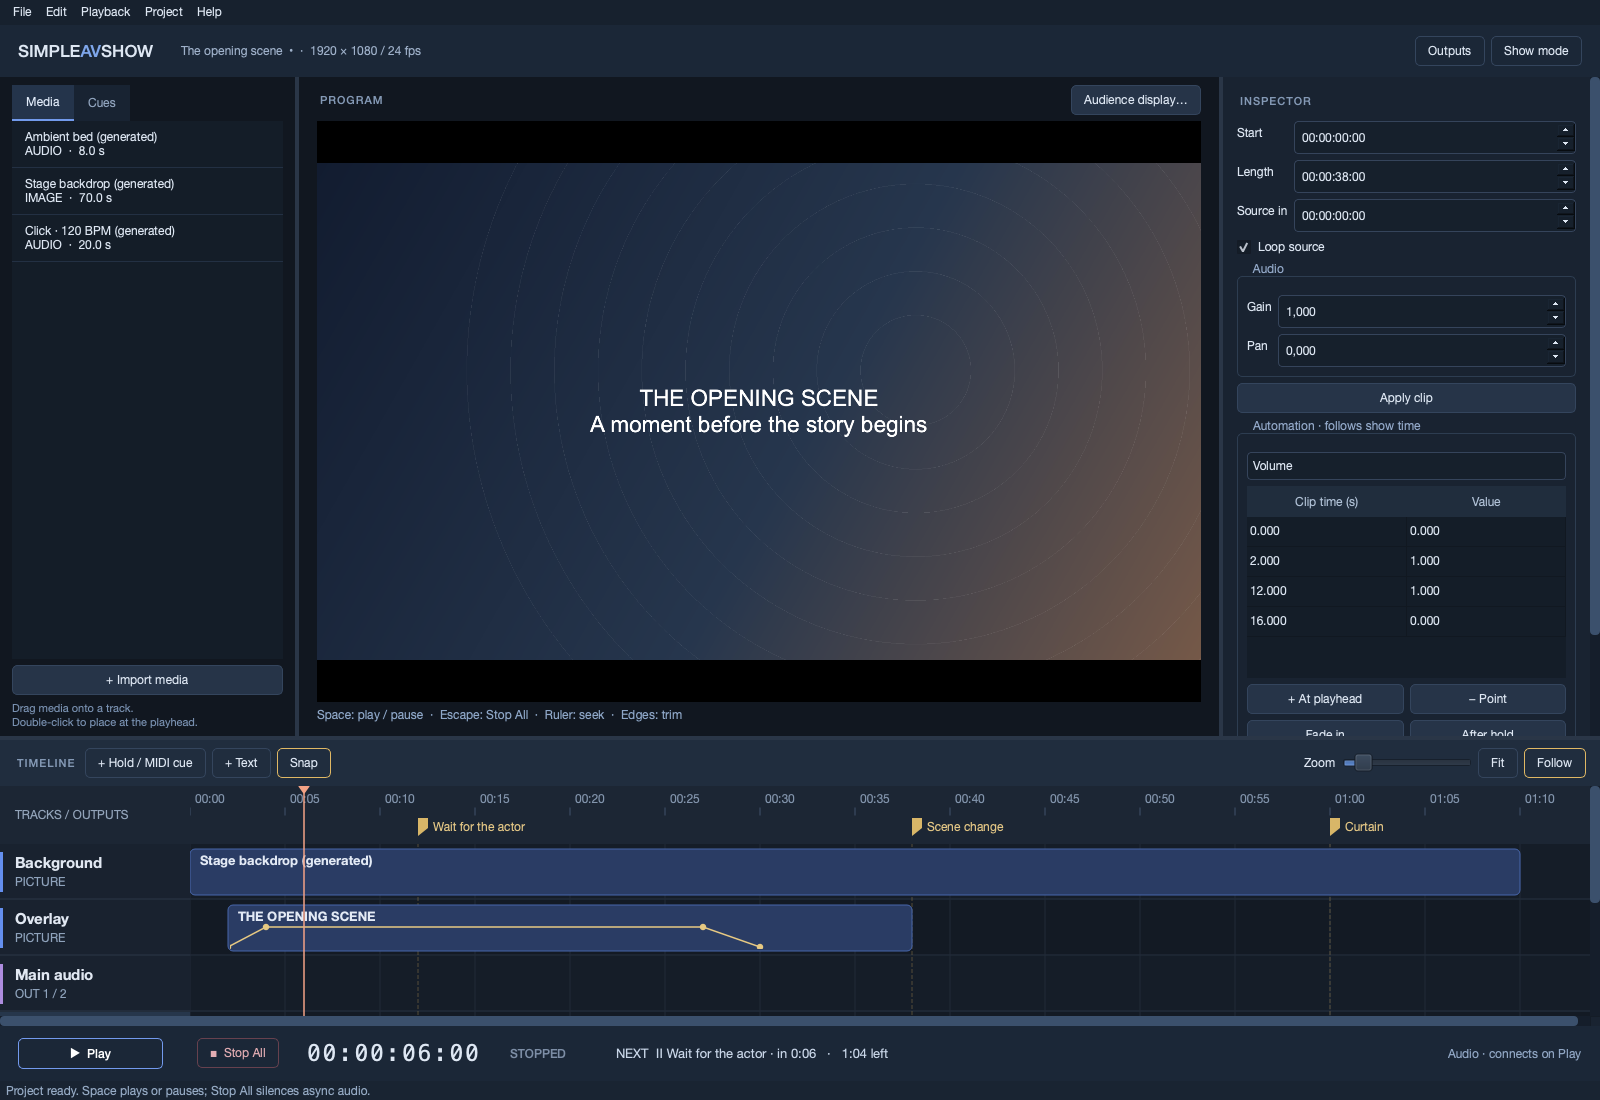
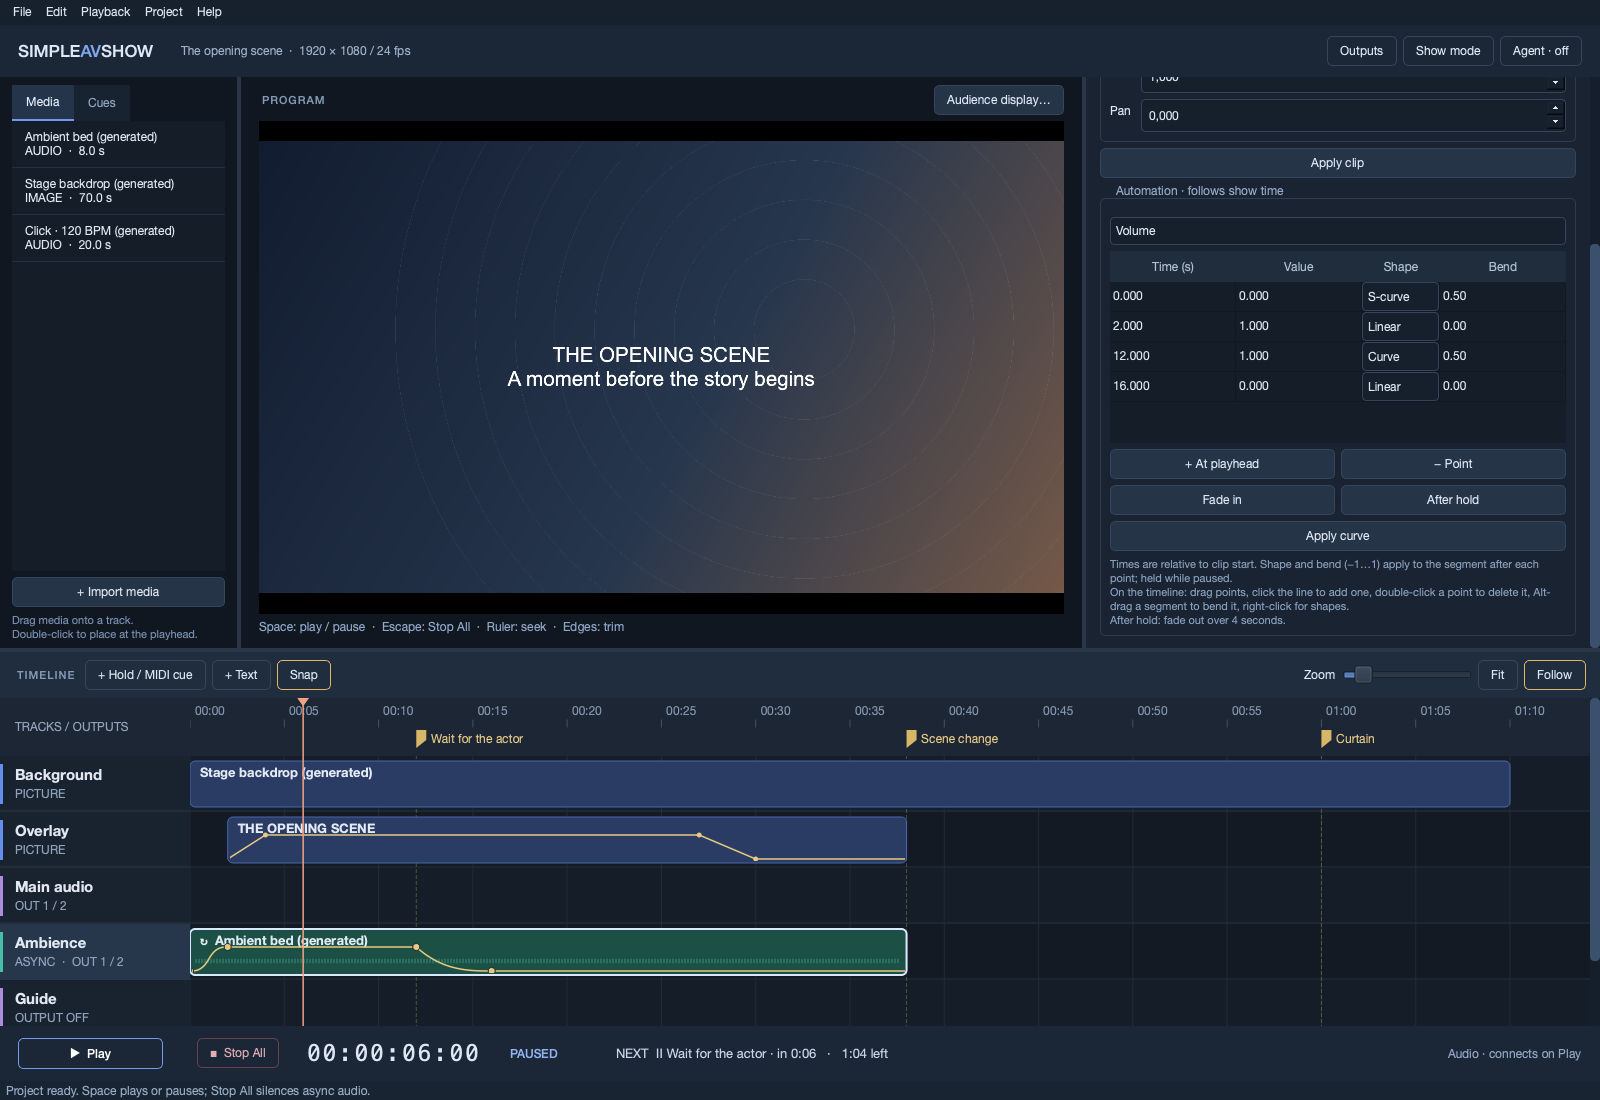
docs: refresh timeline keyframe editing guide [skip ci]

diff --git a/docs/editing-a-show.md b/docs/editing-a-show.md
@@ -66,7 +66,7 @@ Select a clip to show its inspector.
 
 Start, Length, Source in, and cue Time display **HH:MM:SS:FF**. At 24 fps, `00:00:12:12` is 12.5 seconds. These fields also accept plain seconds (`12.5`), minutes/seconds (`01:30`), or minutes/seconds/frames (`01:30:12`). The last part of a three- or four-part entry is a frame number, not decimal seconds. Frame numbers must be below the project's frame-rate ceiling.
 
-Numeric/name fields apply when you press Enter or leave the field. Checkboxes and routing presets apply immediately. The **Apply track**, **Apply clip**, and **Apply cue** buttons remain available. For multiline text, click **Apply clip** after editing. MIDI message choices require **Apply cue**; automation table changes require **Apply curve**.
+Numeric/name fields apply when you press Enter or leave the field. Checkboxes and routing presets apply immediately. The **Apply track**, **Apply clip**, and **Apply cue** buttons remain available. For multiline text, click **Apply clip** after editing. MIDI message choices require **Apply cue**. Automation table changes require **Apply curve**; timeline keyframe edits apply when you release the mouse, and timeline menu choices apply immediately.
 
 Moving a clip keeps its automation relative to the clip. A left trim shifts automation with the source content and preserves the value and segment shape at the new beginning. Edits and device changes rebuild playback state; async source cursors do not persist through those operations.
 
@@ -101,23 +101,32 @@ Still images and video preserve their aspect ratio and fit inside the project fr
 
 ## Automation and fade helpers
 
-![Looping ambience clip with volume automation](screenshots/05-audio-automation.png)
+![Looping ambience clip with shaped volume automation on the timeline and Time, Value, Shape, and Bend columns in the inspector](screenshots/05-audio-automation.png)
 
 Automation values follow **show time**, measured relative to clip Start. They do not follow the looping source's playback position. When a property has keyframes, its curve supplies that property's value; it does not multiply the base clip value. Track gain still multiplies clip volume.
 
 ### On the timeline
 
-Every clip draws its Volume (audio) or Opacity (picture) curve; the selected clip draws the property chosen in the inspector, with a dashed line at its base value when it has no keyframes. While editing is allowed:
+Clips with keyframes draw their Volume (audio) or Opacity (picture) curve. The selected clip draws the compatible property chosen in the inspector, with a dashed line at its base value when it has no keyframes.
+
+1. Select a clip and choose the property under **Automation · follows show time** in the inspector. Use Volume or Pan for audio; Position X, Position Y, Scale, or Opacity for picture.
+2. Click the selected clip's gold curve (or dashed base-value line) to add a keyframe. Drag a gold point horizontally to change its time and vertically to change its value; the label shows clip-relative seconds and the value during the drag.
+3. Release the mouse to apply the edit. The inspector table updates to match; no **Apply curve** click is needed for timeline edits. Use **Edit → Undo** to undo the gesture.
+
+![Ambience Volume keyframe being dragged to 10 seconds relative to clip start and a value of 0.75](screenshots/12-timeline-keyframes.png)
+
+While editing is allowed:
 
 | Mouse | Result |
 | --- | --- |
 | Drag a point | Moves it in time and value. Times stay between the neighbouring points and inside the clip, and follow **Snap**. Hold Shift to change only the value. |
 | Click the selected clip's line | Adds a point on the line and lets you drag it straight away. |
 | Double-click a point | Deletes it. |
-| Alt/Option-drag a segment | Bends it into a **Curve**; dragging up bows the line upwards. |
-| Right-click a point or line | Deletes the point or chooses the shape of the segment that follows it. |
+| Alt/Option-drag the selected clip's segment | Adjusts its bend; Linear or Hold becomes **Curve**, while Curve or S-curve keeps its shape. Dragging up bows the line upwards. |
+| Right-click a point | **Delete point** removes it. When a next point exists, choose the shape of the segment leading to it. |
+| Right-click the selected clip's line between points | Chooses that segment's shape. **Reset bend** straightens a bent Curve or S-curve. |
 
-The cursor shows what a press would grab. Points on unselected clips can be dragged directly; that selects the clip. A drag elsewhere on the clip still moves or trims it. Each change is one undo step.
+The cursor shows what a press would grab. Points on unselected clips can be dragged directly; that selects the clip. A drag elsewhere on the clip still moves or trims it. Each change is one undo step. Zoom in if points are close together. To move or trim a clip, grab away from its points and curve.
 
 ### Segment shapes
 
@@ -130,7 +139,7 @@ Each keyframe sets the shape of the segment that runs to the next keyframe:
 | **Curve** | Positive bend changes quickly first and settles into the next point (a natural audio fade-out); negative bend starts slowly and accelerates. |
 | **S-curve** | Positive bend eases out of one point and into the next; negative bend does the opposite, moving quickly at both ends. |
 
-Bend runs from −1 to 1; 0 is a straight line. Choosing Curve or S-curve from the timeline menu starts at bend 0.5.
+Bend runs from −1 to 1; 0 is a straight line for Curve and S-curve. Choosing Curve or S-curve from the timeline menu sets a zero bend to 0.5; an existing nonzero bend is preserved. Linear and Hold reset bend to 0. The last keyframe has no following segment, so its Shape and Bend do not change the curve.
 
 ### In the inspector
 
@@ -139,9 +148,9 @@ Bend runs from −1 to 1; 0 is a straight line. Choosing Curve or S-curve from t
 3. Seek to a useful position and click **+ At playhead** to add a row with the current interpolated value. The time is clamped to the selected clip's duration.
 4. Edit **Time (s)**, **Value**, **Shape**, and **Bend**, using a decimal point for decimal table entries. Times here are seconds relative to clip Start, not timecode.
 5. Select a row and use **− Point** to remove it.
-6. Click **Apply curve**. Times are sorted; duplicate times, negative times, bends outside −1…1, and values outside the property's range are rejected. Apply the table before changing the selection/property.
+6. Click **Apply curve** to commit the table as one undo step. Times are sorted; duplicate times, negative times, bends outside −1…1, and values outside the property's range are rejected. Apply the table before changing the selection/property or editing points on the timeline.
 
-![Complete automation table and fade helper controls](screenshots/11-automation-controls.png)
+![Complete automation table with Time, Value, Shape, and Bend, plus Apply curve and fade helpers](screenshots/11-automation-controls.png)
 
 Before the first keyframe they use its value; after the last they keep the final value. An empty curve restores the base clip value. All curves freeze during pauses and holds, including curves on async audio whose source keeps playing.
 

diff --git a/development/screenshots.md b/development/screenshots.md
@@ -2,7 +2,7 @@
 
 Developer notes for the [user manual](../docs/README.md) screenshots in `docs/screenshots/`.
 
-Captured on 13 October 2026 from the native Qt widgets rebuilt at commit `460ef1d`. These are actual application renders, not mockups. The capture used macOS, the application's Fusion style/palette, an isolated settings directory, and Qt's offscreen platform. The desktop editor images are 1600 × 1100; dialog/control images use their own dimensions. No physical audio output or MIDI messages were started for capture.
+Most images were captured on 13 October 2026 from the native Qt widgets rebuilt at commit `460ef1d`. Automation images **05**, **11**, and **12** were captured on 14 October 2026 after rebuilding commit `cee280f` (SimpleAVShow 0.4.1), which includes timeline keyframe editing and shaped curves. These are actual application renders, not mockups. The capture used macOS, the application's Fusion style/palette, an isolated settings directory, and Qt's offscreen platform. The desktop editor images are 1600 × 1100; dialog/control and timeline images use their own dimensions. No physical audio output or MIDI messages were started for capture.
 
 Offscreen capture exposes a virtual 800 × 800 display in Outputs. The audio list comes from the capture host. These images illustrate controls and state, not validation of physical routing or fullscreen display behavior. Menus, fonts, decimal separators, device names, and shortcut labels can differ on another platform.
 
@@ -12,13 +12,14 @@ Offscreen capture exposes a virtual 800 × 800 display in Outputs. The audio lis
 | [02-project-settings.png](../docs/screenshots/02-project-settings.png) | Demo project settings: 1920 × 1080, 24 fps, 70 s. |
 | [03-track-routing.png](../docs/screenshots/03-track-routing.png) | Guide selected and routed through the mono-output-3 preset; right leg Off. This is an example edit, not the default route. |
 | [04-picture-and-text.png](../docs/screenshots/04-picture-and-text.png) | Demo title clip selected, timing/text/picture properties visible. |
-| [05-audio-automation.png](../docs/screenshots/05-audio-automation.png) | Demo ambience selected, Loop source and Volume keyframes visible. |
+| [05-audio-automation.png](../docs/screenshots/05-audio-automation.png) | Unmodified demo at 6 s, ambience selected, Fit enabled, inspector scrolled to Volume with Time, Value, Shape, and Bend visible. |
 | [06-midi-cue.png](../docs/screenshots/06-midi-cue.png) | Example edit to the first demo hold: Program 5/channel 1 after Continue. No destination/test send. The stock demo has no MIDI messages. |
 | [07-outputs.png](../docs/screenshots/07-outputs.png) | Outputs with driver/latency controls expanded and audience-display controls visible. |
 | [08-show-preflight.png](../docs/screenshots/08-show-preflight.png) | Unsaved example show with MIDI unconfigured and program output closed. |
 | [09-hold-playback.png](../docs/screenshots/09-hold-playback.png) | Unmodified demo rendered to its 12 s hold through the transport without a physical device; one async voice remains active. |
 | [10-show-mode.png](../docs/screenshots/10-show-mode.png) | Same held transport with Show mode locked. |
 | [11-automation-controls.png](../docs/screenshots/11-automation-controls.png) | Entire native automation group, including Apply curve and fade helpers normally reached by inspector scrolling. |
+| [12-timeline-keyframes.png](../docs/screenshots/12-timeline-keyframes.png) | Timeline at 35 pixels/s during an example drag of the ambience's 12 s Volume point to 10 s and 0.75. The in-progress label uses clip-relative seconds; the clip stays in place. |
 
 ## Refreshing the screenshots
 
@@ -35,5 +36,7 @@ QT_QPA_PLATFORM=offscreen build/simpleavshow.app/Contents/MacOS/simpleavshow \
 ```
 
 This command captures the editor at its default size and exits. For the other states, open **File → Open demonstration**, follow the states listed above, and capture the native editor/dialog. Resize the editor and move splitters for readable panels; scroll the inspector/Outputs to include lower controls. Use a separate temporary demo copy and leave real equipment disconnected when capturing example MIDI edits.
+
+For the automation images, use a 1600 × 1100 editor and widen the inspector to about 500 pixels so all four table columns fit. Select the **Ambient bed (generated)** clip on **Ambience**, seek to 6 s, use **Fit**, and scroll the inspector to the complete automation group for images 05 and 11. The stock demo has an S-curve fade-in (bend 0.5) from 0–2 s and a Curve fade-out (bend 0.5) from 12–16 s. For image 12, zoom to 35 pixels/s with the timeline scrolled fully left, then capture the timeline during the 12 s point's drag to 10 s / 0.75. Capture before releasing the mouse so the native value label is visible; undo the example edit afterwards.
 
 When updating images, check every label at readable resolution, keep the same filenames/relative Markdown links, and update the capture date above. Review captures for user paths/private device names before committing. Do not use a hold screenshot to claim physical playback validation; use the [hardware-validation procedure](../docs/hardware-validation.md) for that.

diff --git a/README.md b/README.md
@@ -36,7 +36,7 @@ The [illustrated user manual](docs/README.md) covers installation, timeline edit
 - Picture layers composed into one program picture, shown on a fullscreen output that remembers its display.
 - Holds that freeze show time until the operator continues; async audio (ambience, loops) keeps playing through holds and pauses.
 - Per-track routing to physical output channels, with presets for stereo speakers, mono feeds (guide, click), or silence. ASIO on Windows.
-- Clip automation for volume, pan, position, scale, and opacity, with fade helpers.
+- [Clip automation](docs/editing-a-show.md#automation-and-fade-helpers) for volume, pan, position, scale, and opacity: edit keyframes on the timeline, shape segments with Linear/Hold/Curve/S-curve, and use fade helpers.
 - MIDI cues sent on arrival or on resume, with a guided editor for notes, controls, programs, pitch bend, and raw/SysEx messages.
 - Show mode with a preflight check, editing/seek lock, next-cue countdown, and confirmations before leaving or quitting.
 - Atomic saves, autosave recovery, relinking of missing media, and portable `.savpack` packages that open on any supported platform.

diff --git a/docs/README.md b/docs/README.md
@@ -2,7 +2,7 @@
 
 SimpleAVShow builds and plays stage shows from a timeline of pictures, sound, text, holds, and MIDI cues. This manual covers preparing a show, rehearsing it, operating it, and transferring it to another computer.
 
-This manual describes SimpleAVShow 0.3. Screenshots show the current native editor on macOS; Windows and Linux use the same controls. Device names, fonts, decimal separators, and menu shortcuts can differ. This is a development prototype: complete a rehearsal on the actual show hardware before a performance.
+This manual describes SimpleAVShow 0.4.1. Screenshots show the native editor on macOS, with automation images refreshed for timeline keyframe editing; Windows and Linux use the same controls. Device names, fonts, decimal separators, and menu shortcuts can differ. This is a development prototype: complete a rehearsal on the actual show hardware before a performance.
 
 ![SimpleAVShow editor with the demonstration at six seconds](screenshots/01-editor-overview.png)
 
